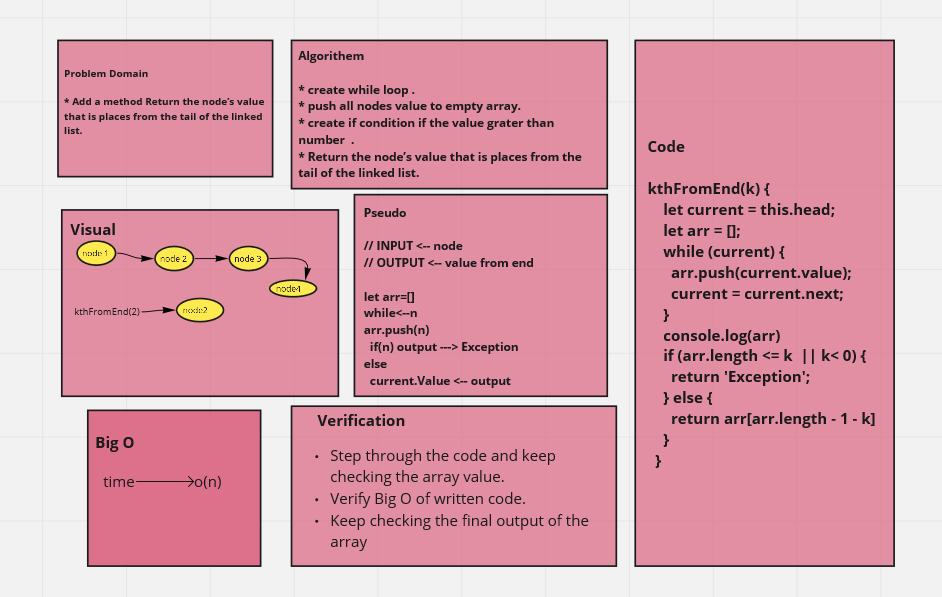
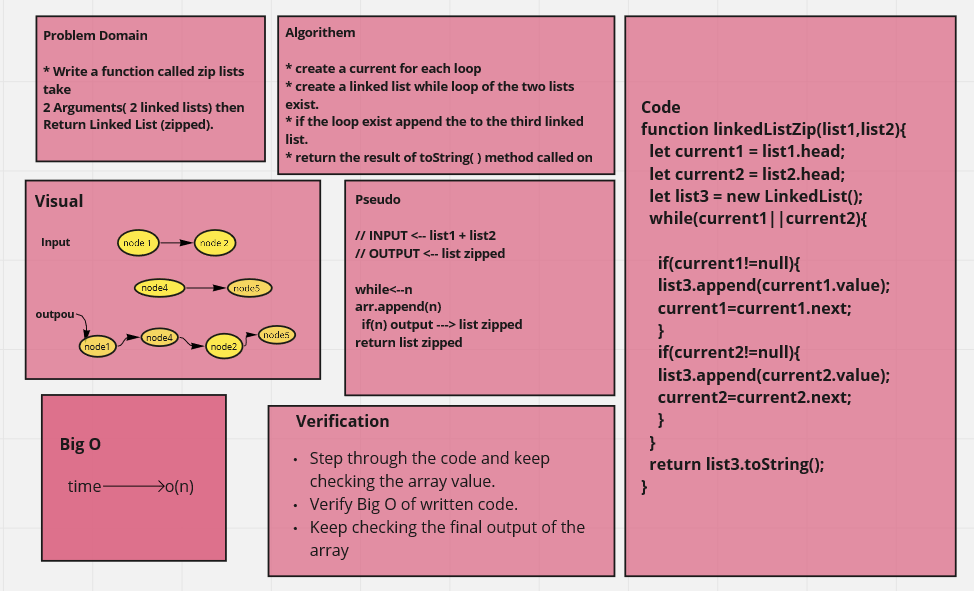
done

diff --git a/javascript/linked-list/__tests__/linked-list.test.js b/javascript/linked-list/__tests__/linked-list.test.js
@@ -1,10 +1,11 @@
 'use strict';
 
-const LinkedLilst = require('../index');
+const LinkedList = require('../index').LinkedList;
+const linkedListZip = require('../index').linkedListZip;
 
 describe('Linked List',()=>{
   it('Should Instantiate',()=>{
-    const ll = new LinkedLilst();
+    const ll = new LinkedList();
     expect(ll).toBeDefined();
     expect(ll.head).toBeNull();
   });
@@ -12,19 +13,19 @@ describe('Linked List',()=>{
 
 describe('can insert',()=>{
   it('can insert head ', ()=>{
-    let ll = new LinkedLilst();
+    let ll = new LinkedList();
     ll.insert('first');
     expect(ll.head.value).toBe('first');      
   });
   it('multiple nodes',()=>{
-    let ll = new LinkedLilst();
+    let ll = new LinkedList();
     ll.insert('first');
     ll.insert('sec');
     ll.insert('thir');
     expect(ll.head.next).toBeDefined();
   });
   it('include node',()=>{
-    let ll = new LinkedLilst();
+    let ll = new LinkedList();
     ll.insert('first');
     ll.insert('sec');
     ll.insert('thir');
@@ -32,7 +33,7 @@ describe('can insert',()=>{
     expect(ll.includes('fourth')).toBeFalsy();
   });
   it('return a collection',()=>{
-    let ll = new LinkedLilst();
+    let ll = new LinkedList();
     ll.insert('first');
     ll.insert('sec');
     ll.insert('thir');
@@ -44,14 +45,14 @@ describe('can insert',()=>{
 describe('linked-list-insertions',()=>{
 
   it(' add a node to the end ',()=>{
-    const ll = new LinkedLilst();
+    const ll = new LinkedList();
     ll.append('first');
     ll.append('sec');
     expect(ll.head.next.value).toBe('sec');
   });
 
   it(' add multiple nodes ',()=>{
-    const ll = new LinkedLilst();
+    const ll = new LinkedList();
     ll.append('first');
     ll.append('sec');
     ll.append('thir');
@@ -62,7 +63,7 @@ describe('linked-list-insertions',()=>{
 
 
   test('insert in the middle',()=>{
-    const ll = new LinkedLilst();
+    const ll = new LinkedList();
     ll.append('first');
     ll.append('sec');
     ll.append('thir');
@@ -71,7 +72,7 @@ describe('linked-list-insertions',()=>{
     expect(ll.head.next.next.value).toBe('stuff');
   })
   test('insert before first',()=>{
-    const ll = new LinkedLilst();
+    const ll = new LinkedList();
     ll.append('first');
     ll.append('sec');
     ll.append('thir');
@@ -80,7 +81,7 @@ describe('linked-list-insertions',()=>{
     expect(ll.head.value).toBe('stuff');
   })
   test('insert after a value',()=>{
-    const ll = new LinkedLilst();
+    const ll = new LinkedList();
     ll.append('first');
     ll.append('sec');
     ll.append('thir');
@@ -89,7 +90,7 @@ describe('linked-list-insertions',()=>{
     expect(ll.head.next.next.next.value).toBe('stuff');
   })
   test('insert after last',()=>{
-    const ll = new LinkedLilst();
+    const ll = new LinkedList();
     ll.append('first');
     ll.append('sec');
     ll.append('thir');
@@ -103,7 +104,7 @@ describe('linked-list-insertions',()=>{
 
 describe('linked-list-kth',()=>{
   it('k is greater than the length ',()=>{
-    const ll = new LinkedLilst();
+    const ll = new LinkedList();
     ll.append('first');
     ll.append('sec');
     ll.append('thir');
@@ -113,7 +114,7 @@ describe('linked-list-kth',()=>{
   });
 
   it('k and the length of the list are the same',()=>{
-    const ll = new LinkedLilst();
+    const ll = new LinkedList();
     ll.append('first');
     ll.append('sec');
     ll.append('thir');
@@ -123,7 +124,7 @@ describe('linked-list-kth',()=>{
   });
 
   it(' k is not a positive',()=>{
-    const ll = new LinkedLilst();
+    const ll = new LinkedList();
     ll.append('first');
     ll.append('sec');
     ll.append('thir');
@@ -133,14 +134,14 @@ describe('linked-list-kth',()=>{
   });
 
   it(' the linked list is of a size 1',()=>{
-    const ll = new LinkedLilst();
+    const ll = new LinkedList();
     ll.append('first');
     expect(ll.kthFromEnd(0)).toBe('first');
     
   });
 
   it('Happy Path” where k is not at the end',()=>{
-    const ll = new LinkedLilst();
+    const ll = new LinkedList();
     ll.append('first');
     ll.append('sec');
     ll.append('thir');
@@ -152,6 +153,21 @@ describe('linked-list-kth',()=>{
     
   });
 });
+
+describe('linked list zip',()=>{
+  
+  const list1 = new LinkedList();
+  const list2 = new LinkedList();
+  
+  list1.append('first');
+  list1.append('sec');
+  list1.append('thir');
+ 
+  list2.append('fourth');
+  list2.append('fif');
+  list2.append('sixth');
+  expect(linkedListZip(list1,list2)).toBe('{first} -> {fourth} -> {sec} -> {fif} -> {thir} -> {sixth}');
+})
 
 
 

diff --git a/javascript/linked-list/index.js b/javascript/linked-list/index.js
@@ -124,4 +124,24 @@ class LinkedList {
 
 
 }
-module.exports = LinkedList;
+
+function linkedListZip(list1,list2){
+  let current1 = list1.head;
+  let current2 = list2.head;
+  let list3 = new LinkedList();
+  while(current1||current2){
+   
+    if(current1!=null){
+    list3.append(current1.value);
+    current1=current1.next;
+    } 
+    if(current2!=null){
+    list3.append(current2.value); 
+    current2=current2.next; 
+    }
+  }
+  return list3.toString();
+}
+
+
+module.exports = {LinkedList,linkedListZip};

diff --git a/javascript/linked-list/README.md b/javascript/linked-list/README.md
@@ -9,7 +9,7 @@
 
 ## Challenge
 
-Write a method for the Linked List class take an argument number as a parameter. Return the node’s value that is places from the tail of the linked list.
+Write a function called zip lists take Arguments (2 linked lists) then Return a Linked List zipped 
 
 
 ## Approach & Efficiency
